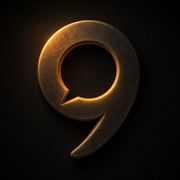
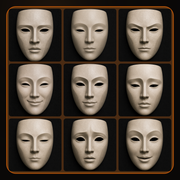
updates

diff --git a/src/app.html b/src/app.html
@@ -27,9 +27,21 @@
 			rel="icon"
 			type="image/png"
 			sizes="32x32"
-			href="%sveltekit.assets%/brand/favicon-32x32.png"
+			href="%sveltekit.assets%/brand/favicon-nine-mask-32x32.png"
 		/>
-		<link rel="alternate icon" type="image/x-icon" href="%sveltekit.assets%/favicon.ico" />
+		<link
+			rel="icon"
+			type="image/png"
+			sizes="16x16"
+			href="%sveltekit.assets%/brand/favicon-nine-mask-16x16.png"
+		/>
+		<link
+			rel="icon"
+			type="image/png"
+			sizes="48x48"
+			href="%sveltekit.assets%/brand/favicon-nine-mask-48x48.png"
+		/>
+		<link rel="icon" type="image/x-icon" href="%sveltekit.assets%/favicon-nine-mask.ico" />
 		<link rel="alternate" type="application/rss+xml" href="https://9takes.com/rss.xml" />
 		%sveltekit.head%
 	</head>

diff --git a/src/lib/components/blog/BlogPageHead.svelte b/src/lib/components/blog/BlogPageHead.svelte
@@ -28,7 +28,7 @@
 	// SERP-budgeted variants - only constrain the snippet-facing tags.
 	let serpTitle = $derived(capTitleForSnippet(formattedTitle));
 	let serpDescription = $derived(capDescriptionForSnippet(description || seoTitle || articleTitle));
-	const defaultShareImage = 'https://9takes.com/brand/aero.png';
+	const defaultShareImage = 'https://9takes.com/brand/9takes-nine-mask-social-card.png';
 	let shareImage = $derived(
 		data?.picGroup?.length
 			? buildSocialImageUrl(data.picGroup[0].image)
@@ -43,6 +43,8 @@
 				? data.pic.split('-').join(' ')
 				: articleTitle || '9takes'
 	);
+	let shareImageWidth = $derived(data?.picGroup?.length ? '560' : data?.pic ? '900' : '1200');
+	let shareImageHeight = $derived(data?.picGroup?.length ? '560' : data?.pic ? '900' : '630');
 	const robotsContent =
 		'index, follow, max-image-preview:large, max-snippet:-1, max-video-preview:-1';
 	let canonicalUrl = $derived(`https://9takes.com/${slug}`);
@@ -170,7 +172,7 @@
 			url: 'https://9takes.com/',
 			logo: {
 				'@type': 'ImageObject',
-				url: 'https://9takes.com/brand/darkRubix.png'
+				url: 'https://9takes.com/brand/9takes-nine-mask-logo-512.png'
 			},
 			sameAs: PUBLISHER_SAME_AS
 		},
@@ -211,8 +213,8 @@
 	<meta property="og:type" content="article" />
 	<meta property="og:url" content={canonicalUrl} />
 	<meta property="og:image" content={shareImage} />
-	<meta property="og:image:width" content="900" />
-	<meta property="og:image:height" content="900" />
+	<meta property="og:image:width" content={shareImageWidth} />
+	<meta property="og:image:height" content={shareImageHeight} />
 	<meta property="og:image:alt" content={shareImageAlt} />
 	<meta property="og:locale" content="en_US" />
 

diff --git a/src/routes/+layout.svelte b/src/routes/+layout.svelte
@@ -580,15 +580,19 @@
 </script>
 
 <svelte:head>
-	<link rel="manifest" href="/site.webmanifest" />
-	<link rel="apple-touch-icon" sizes="180x180" href="/brand/apple-touch-icon-v2.png" />
+	<link rel="manifest" href="/site.webmanifest?v=20260722" />
+	<link rel="apple-touch-icon" sizes="180x180" href="/brand/apple-touch-icon-nine-mask.png" />
 	<meta
 		name="viewport"
 		content="width=device-width, initial-scale=1, maximum-scale=5, user-scalable=yes"
 	/>
 	<meta name="theme-color" content="#0C0A09" />
 	<meta name="apple-mobile-web-app-capable" content="yes" />
+	<meta name="apple-mobile-web-app-title" content="9takes" />
 	<meta name="mobile-web-app-capable" content="yes" />
+	<meta name="application-name" content="9takes" />
+	<meta name="msapplication-TileColor" content="#0a0807" />
+	<meta name="msapplication-TileImage" content="/brand/app-icon-nine-mask-192.png" />
 	<meta name="color-scheme" content="dark light" />
 	{@html `<script>(function(){try{var stored=localStorage.getItem('9takes-theme');var effective=stored==='light'||stored==='dark'?stored:(window.matchMedia('(prefers-color-scheme: light)').matches?'light':'dark');var root=document.documentElement;root.classList.toggle('light',effective==='light');root.classList.toggle('dark',effective==='dark');root.dataset.theme=effective;root.style.colorScheme=effective;var meta=document.querySelector('meta[name="theme-color"]');if(meta)meta.setAttribute('content',effective==='light'?'#FAFAF9':'#0C0A09');}catch{}})()</script>`}
 
@@ -612,7 +616,7 @@
 				founder: { '@id': AUTHOR_DJ_WAYNE_ID },
 				logo: {
 					'@type': 'ImageObject',
-					url: 'https://9takes.com/brand/aero.png',
+					url: 'https://9takes.com/brand/9takes-nine-mask-logo-512.png',
 					width: 512,
 					height: 512
 				},

diff --git a/src/routes/admin/asset-generators/poster-generator/+page.svelte b/src/routes/admin/asset-generators/poster-generator/+page.svelte
@@ -428,8 +428,7 @@
 							bind:value={question}
 							class="input textarea"
 							rows="3"
-							placeholder="Enter your question..."
-						></textarea>
+							placeholder="Enter your question..."></textarea>
 
 						{#if data.questions && data.questions.length > 0}
 							<Button
@@ -696,7 +695,11 @@
 						<!-- Logo -->
 						{#if showLogo}
 							<div class="poster-logo">
-								<img src="/brand/nimbus.png" alt="9takes" class="logo-img" />
+								<img
+									src="/brand/9takes-nine-mask-logo-192.png"
+									alt="9takes nine-mask logo"
+									class="logo-img"
+								/>
 								<span class="logo-text">9takes</span>
 							</div>
 						{/if}

diff --git a/src/lib/components/molecules/Footer.svelte b/src/lib/components/molecules/Footer.svelte
@@ -52,7 +52,13 @@
 			<!-- Brand Section -->
 			<div class="brand-section">
 				<div class="brand-logo">
-					<img src="/brand/aero.webp" alt="9takes Logo" height="48" width="48" loading="lazy" />
+					<img
+						src="/brand/9takes-nine-mask-logo-192.png"
+						alt="9takes nine-mask logo"
+						height="48"
+						width="48"
+						loading="lazy"
+					/>
 					<span class="brand-name">9takes</span>
 				</div>
 				<!-- Locked brand one-liner (brand-positioning.md) — the previous blurb

diff --git a/src/lib/components/atoms/PopCard.svelte b/src/lib/components/atoms/PopCard.svelte
@@ -213,7 +213,12 @@
 	<!-- Content container positioned at bottom -->
 	<div class="image-card__content">
 		{#if showIcon}
-			<img class="image-card__icon" src="brand/darkRubix.webp" alt="rubix cube" loading="lazy" />
+			<img
+				class="image-card__icon"
+				src="/brand/9takes-nine-mask-logo-192.png"
+				alt="9takes nine-mask logo"
+				loading="lazy"
+			/>
 		{/if}
 
 		<div class="image-card__text">

diff --git a/src/lib/components/blog/EnneagramCategoryIntro.svelte b/src/lib/components/blog/EnneagramCategoryIntro.svelte
@@ -368,7 +368,9 @@
 
 	const canonicalUrl = $derived(`https://9takes.com/enneagram-corner/subtopic/${subsection}`);
 	const shareImage = $derived(
-		meta.pic ? `https://9takes.com/blogs/${meta.pic}.webp` : 'https://9takes.com/brand/aero.png'
+		meta.pic
+			? `https://9takes.com/blogs/${meta.pic}.webp`
+			: 'https://9takes.com/brand/9takes-nine-mask-social-card.png'
 	);
 	const shareImageAlt = $derived(meta.pic ? meta.pic.split('-').join(' ') : meta.title);
 
@@ -412,7 +414,7 @@
 				name: '9takes',
 				logo: {
 					'@type': 'ImageObject',
-					url: 'https://9takes.com/brand/aero.png'
+					url: 'https://9takes.com/brand/9takes-nine-mask-logo-512.png'
 				},
 				sameAs: ['https://www.instagram.com/9takesdotcom/', 'https://twitter.com/9takesdotcom']
 			},

diff --git a/src/routes/about/+page.svelte b/src/routes/about/+page.svelte
@@ -28,7 +28,7 @@
 		property="og:description"
 		content="9takes shows how different Enneagram types read the same situation after you give your own take first."
 	/>
-	<meta property="og:image" content="https://9takes.com/brand/aero.png" />
+	<meta property="og:image" content="https://9takes.com/brand/9takes-nine-mask-social-card.png" />
 	<meta property="og:image:alt" content="9takes brand mark" />
 	<meta property="og:url" content="https://9takes.com/about" />
 	<meta property="og:type" content="website" />
@@ -43,7 +43,7 @@
 		name="twitter:description"
 		content="Give your real take first. Then compare how nine Enneagram types read the same situation."
 	/>
-	<meta name="twitter:image" content="https://9takes.com/brand/aero.png" />
+	<meta name="twitter:image" content="https://9takes.com/brand/9takes-nine-mask-social-card.png" />
 	<meta name="twitter:image:alt" content="9takes brand mark" />
 
 	<!-- Structured Data for Person and Organization -->
@@ -63,7 +63,7 @@
 				"url": "https://9takes.com",
 				"logo": {
 					"@type": "ImageObject",
-					"url": "https://9takes.com/brand/aero.png",
+					"url": "https://9takes.com/brand/9takes-nine-mask-logo-512.png",
 					"width": 512,
 					"height": 512
 				},

diff --git a/src/lib/components/atoms/SmallPopCard.svelte b/src/lib/components/atoms/SmallPopCard.svelte
@@ -186,8 +186,8 @@
 		{#if showIcon}
 			<img
 				class="drop-shadow-white mt-2 w-8 filter"
-				src="brand/darkRubix.webp"
-				alt="rubix cube"
+				src="/brand/9takes-nine-mask-logo-192.png"
+				alt="9takes nine-mask logo"
 				loading="lazy"
 			/>
 		{/if}

diff --git a/src/routes/personality-analysis/type/[slug]/+page.svelte b/src/routes/personality-analysis/type/[slug]/+page.svelte
@@ -214,7 +214,7 @@
 			url: 'https://9takes.com',
 			logo: {
 				'@type': 'ImageObject',
-				url: 'https://9takes.com/brand/aero.png'
+				url: 'https://9takes.com/brand/9takes-nine-mask-logo-512.png'
 			}
 		}
 	});
@@ -271,7 +271,7 @@
 			url: 'https://9takes.com',
 			logo: {
 				'@type': 'ImageObject',
-				url: 'https://9takes.com/brand/aero.png'
+				url: 'https://9takes.com/brand/9takes-nine-mask-logo-512.png'
 			}
 		},
 		...(latestDate ? { dateModified: latestDate } : {})

diff --git a/src/routes/stories/enneagram-and-mental-illness/story.html b/src/routes/stories/enneagram-and-mental-illness/story.html
@@ -294,7 +294,7 @@
 					"name": "9takes",
 					"logo": {
 						"@type": "ImageObject",
-						"url": "https://9takes.com/brand/aero.png",
+						"url": "https://9takes.com/brand/9takes-nine-mask-logo-512.png",
 						"width": 600,
 						"height": 60
 					}
@@ -309,7 +309,7 @@
 			standalone
 			title="The Enneagram and Mental Illness"
 			publisher="9takes"
-			publisher-logo-src="https://9takes.com/brand/aero.png"
+			publisher-logo-src="https://9takes.com/brand/9takes-nine-mask-logo-512.png"
 			poster-portrait-src="https://9takes.com/blogs/greek-statue-2-sided-mask.webp"
 		>
 			<!-- Cover Page -->

diff --git a/src/lib/components/notifications/AdminMessageReceiver.svelte b/src/lib/components/notifications/AdminMessageReceiver.svelte
@@ -55,7 +55,7 @@
 		if ('Notification' in window && Notification.permission === 'granted') {
 			new Notification(`${type} from Admin`, {
 				body: message.content,
-				icon: '/favicon.png',
+				icon: '/brand/app-icon-nine-mask-192.png',
 				tag: 'admin-message'
 			});
 		}